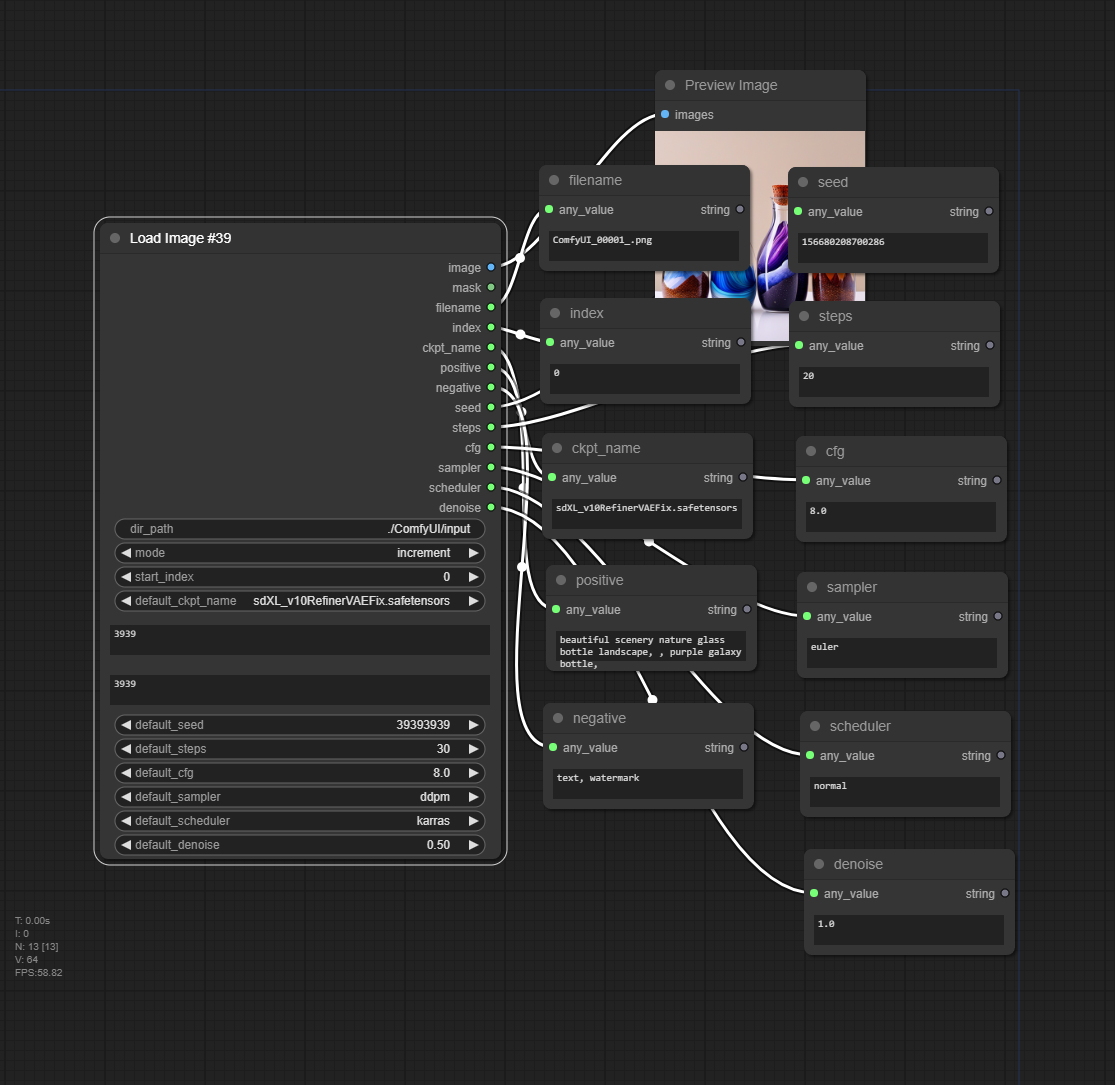
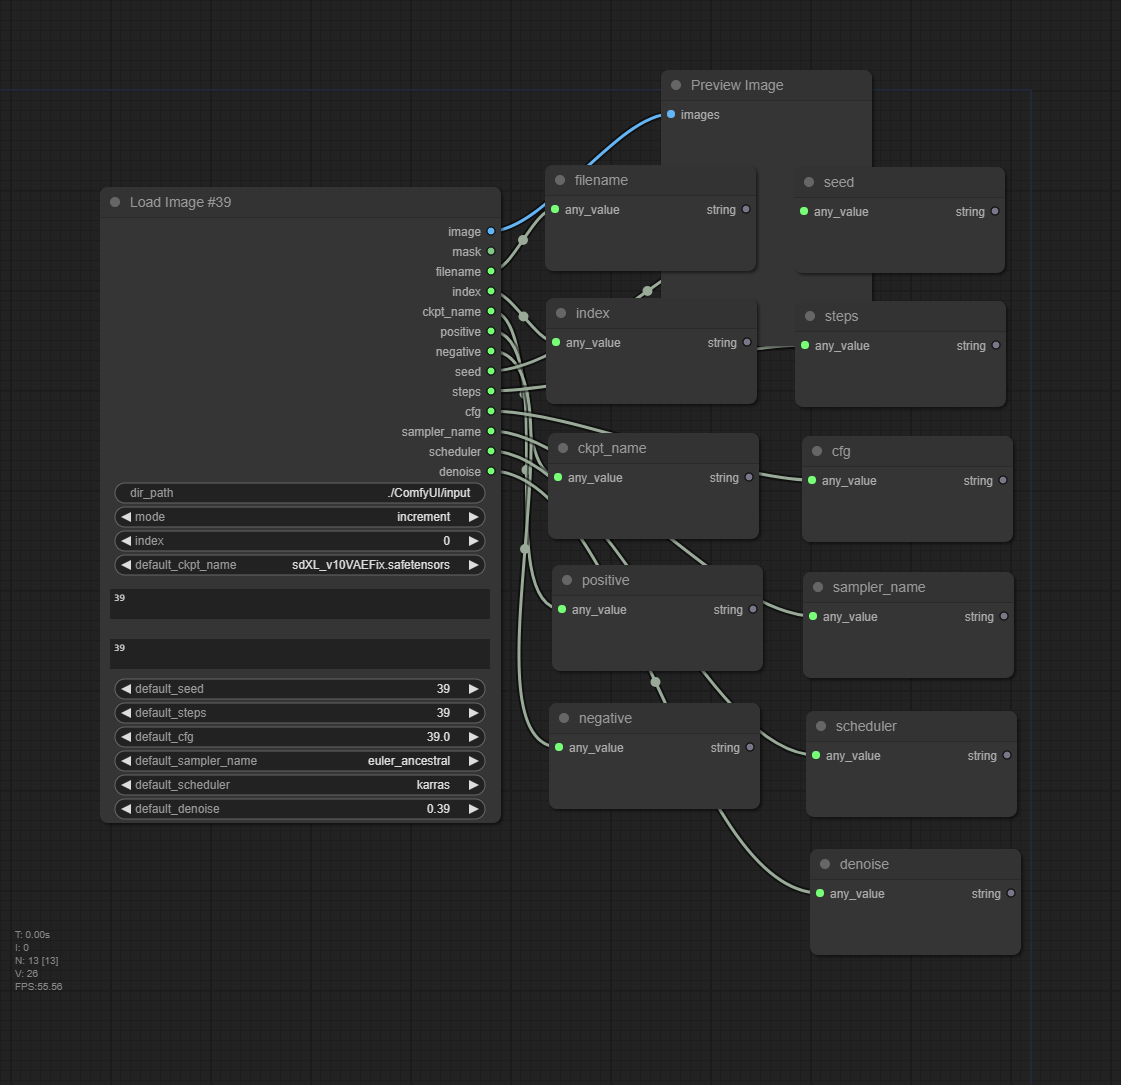
update index for each task

diff --git a/js/index.js b/js/index.js
@@ -1,0 +1,49 @@
+import { api } from "../../scripts/api.js";
+
+const DEBUG = false;
+const NODE_TYPE = "Load Image #39";
+
+if (DEBUG) {
+  console.log("#39 js loaded");
+}
+
+function updateIndexHandler(event) {
+	const nodes = app.graph._nodes_by_id;
+  const updates = event.detail;
+
+  if (DEBUG) {
+    console.log("#39 nodes:", nodes);
+    console.log("#39 updates:", updates);
+  }
+
+	for (let i in nodes) {
+		const node = nodes[i];
+
+    if (node.type !== NODE_TYPE) {
+      continue;
+    }
+    if (!node.widgets) {
+      continue;
+    }
+
+    if (DEBUG) {
+      console.log("#39 node id:", node.id);
+      console.log("#39 node type:", node.type);
+      console.log("#39 node widgets:", node.widgets);
+    }
+
+    const indexWidget = node.widgets.find(function(item) {
+      return item.name == "index";
+    });
+
+    if (DEBUG) {
+      console.log("#39 index widget:", indexWidget);
+    }
+
+    if (updates[node.id] !== undefined) {
+      indexWidget.value = updates[node.id];
+    }
+	}
+}
+
+api.addEventListener("load-image-39-update-index", updateIndexHandler);

diff --git a/__init__.py b/__init__.py
@@ -1,11 +1,12 @@
 """
 @author: shinich39
-@title: Load Image 39
-@nickname: Load Image 39
+@title: Load Image #39
+@nickname: Load Image #39
 @version: 1.0.0
 @description: Load png image sequentially with metadata
 """
 
+import server
 import numpy as np
 import torch
 import os
@@ -16,21 +17,27 @@ from .libs.parser import parse_png
 from .libs.utils import load_image_from_directory
 
 DEBUG = False
+VERSION = "1.0.0"
+WEB_DIRECTORY = "./js"
+NODE_CLASS_MAPPINGS = {}
+NODE_DISPLAY_NAME_MAPPINGS = {}
+__all__ = ["NODE_CLASS_MAPPINGS", "NODE_DISPLAY_NAME_MAPPINGS"]
 
+# main
 class LoadImage():
   def __init__(self):
-    self.loaders = {}
+    pass
 
   @classmethod
-  def INPUT_TYPES(s):
+  def INPUT_TYPES(cls):
     return {
       "hidden": {
         "unique_id": "UNIQUE_ID",
       },
       "required": {
         "dir_path": ("STRING", {"default": "./ComfyUI/input"}),
-        "mode": (["fixed", "increment", "reset"],),
-        "start_index":  ("INT", {"default": 0, "min": 0, "step": 1}),
+        "mode": (["fixed", "increment"],),
+        "index":  ("INT", {"default": 0, "min": 0, "step": 1}),
       },
       "optional": {
         "default_ckpt_name": (comfy_paths.get_filename_list("checkpoints"), ),
@@ -50,60 +57,50 @@ class LoadImage():
     return float("NaN")
 
   CATEGORY = "image"
-  RETURN_TYPES = ("IMAGE", "MASK", "STRING", "INT", "STRING", "STRING", "STRING", "SEED", "INT", "FLOAT", "STRING", "STRING", "FLOAT")
-  RETURN_NAMES = ("image", "mask", "filename", "index", "ckpt_name", "positive", "negative", "seed", "steps", "cfg", "sampler_name", "scheduler", "denoise")
+  RETURN_TYPES = ("IMAGE",  "MASK", "STRING",  "INT",    "STRING",     "STRING",   "STRING",   "INT", "INT",    "FLOAT",  "STRING",       "STRING",     "FLOAT")
+  RETURN_NAMES = ("image",  "mask", "filename","index",  "ckpt_name",  "positive", "negative", "seed", "steps",  "cfg",    "sampler_name", "scheduler",  "denoise")
 
   FUNCTION = "exec"
 
-  def exec(self, unique_id, dir_path, mode, start_index, default_ckpt_name, default_positive, default_negative, default_seed, default_steps, default_cfg, default_sampler_name, default_scheduler, default_denoise):
+  def exec(self, unique_id, dir_path, mode, index, default_ckpt_name, default_positive, default_negative, default_seed, default_steps, default_cfg, default_sampler_name, default_scheduler, default_denoise):
     if DEBUG:
-      print(f"dir_path: {dir_path}")
+      print(f"#39 unique_id: {unique_id}")
+      print(f"#39 dir_path: {dir_path}")
+      print(f"#39 mode: {mode}")
+      print(f"#39 index: {index}")
 
     if not os.path.isdir(dir_path):
-      raise FileNotFoundError(f"{dir_path} not found.")
-    
-    current_index = start_index
-    if self.loaders.__contains__(unique_id):
-      current_index = self.loaders[unique_id]
-
-    # reset
-    if mode == "reset":
-      current_index = start_index
-      self.loaders[unique_id] = start_index
+      raise FileNotFoundError(f"#39 {dir_path} not found.")
   
     # load
-    image, file_path, file_name, file_index = load_image_from_directory(dir_path, current_index)
-
-    if DEBUG:
-      print(f"file_index: {file_index}")
+    image, file_path, file_name, file_index = load_image_from_directory(dir_path, index)
 
     if image is None:
-      raise FileNotFoundError(f"Image not found.")
+      raise FileNotFoundError(f"#39 Image not found.")
     
-    # set index
-    if mode == "increment":
-      self.loaders[unique_id] = file_index + 1
-    elif mode == "reset":
-      self.loaders[unique_id] = file_index
-
+    if DEBUG:
+      print(f"#39 file_path: {file_path}")
+      print(f"#39 file_name: {file_name}")
+      print(f"#39 file_index: {file_index}")
+      
     # parse
     p_prompt, n_prompt, setting, parameter = parse_png(file_path)
 
     if DEBUG:
-      print(f"positive: {p_prompt}")
-      print(f"negative: {n_prompt}")
-      print(f"setting: {setting}")
-      print(f"parameter: {parameter}")
+      print(f"#39 positive: {p_prompt}")
+      print(f"#39 negative: {n_prompt}")
+      print(f"#39 setting: {setting}")
+      print(f"#39 parameter: {parameter}")
 
-    model = default_ckpt_name if "model" not in parameter else parameter["model"]
-    positive = default_positive if p_prompt is None else p_prompt
-    negative = default_negative if n_prompt is None else n_prompt
-    seed = default_seed if "seed" not in parameter else parameter["seed"]
-    steps = default_steps if "steps" not in parameter else parameter["steps"]
-    cfg = default_cfg if "cfg" not in parameter else parameter["cfg"]
-    sampler_name = default_sampler_name if "sampler" not in parameter else parameter["sampler"]
-    scheduler = default_scheduler if "scheduler" not in parameter else parameter["scheduler"]
-    denoise = default_denoise if "denoise" not in parameter else parameter["denoise"]
+    model = default_ckpt_name if parameter["model"] == "None" else parameter["model"]
+    positive = default_positive if not p_prompt else p_prompt
+    negative = default_negative if not n_prompt else n_prompt
+    seed = default_seed if parameter["seed"] == "None" else parameter["seed"]
+    steps = default_steps if parameter["steps"] == "None" else parameter["steps"]
+    cfg = default_cfg if parameter["cfg"] == "None" else parameter["cfg"]
+    sampler_name = default_sampler_name if parameter["sampler"] == "None" else parameter["sampler"]
+    scheduler = default_scheduler if parameter["scheduler"] == "None" else parameter["scheduler"]
+    denoise = default_denoise if parameter["denoise"] == "None" else parameter["denoise"]
 
     # image
     img = ImageOps.exif_transpose(image)
@@ -117,15 +114,52 @@ class LoadImage():
       mask = torch.zeros((64, 64), dtype=torch.float32, device="cpu")
 
     return (image, mask.unsqueeze(0), file_name, file_index, model, positive, negative, seed, steps, cfg, sampler_name, scheduler, denoise)
-  
-WEB_DIRECTORY = "./web"
 
-NODE_CLASS_MAPPINGS = {
-  "Load Image #39": LoadImage,
-}
+# to js
+def update_workflow_index(json_data):
+  nodes = json_data['extra_data']['extra_pnginfo']['workflow']['nodes']
+  widget_idx_map = json_data['extra_data']['extra_pnginfo']['workflow']['widget_idx_map']
+  prompt = json_data['prompt']
 
-NODE_DISPLAY_NAME_MAPPINGS = {
-  "Load Image #39": "Load Image #39",
-}
+  updates = {}
+  for node in nodes:
+    node_id = str(node['id']) # unique_id
+    node_type = str(node['type']) # node name
+    if DEBUG:
+      print(f"#39 node_id {node_id}")
+      print(f"#39 node_type {node_type}")
+       
+    if node_type == "Load Image #39" and node_id in prompt:
+      node_inputs = prompt[node_id]['inputs']
+      
+      mode = node_inputs["mode"]
+      index = node_inputs["index"]
 
-__all__ = ["NODE_CLASS_MAPPINGS", "NODE_DISPLAY_NAME_MAPPINGS"]
+      if mode == "increment":
+        index += 1
+
+      updates[node_id] = index
+
+  if DEBUG:
+    print(f"#39 updates {updates}")
+
+  server.PromptServer.instance.send_sync("load-image-39-update-index", updates)
+
+def onprompt(json_data):
+  print(f"#39 onprompt: {json_data}")
+
+  update_workflow_index(json_data)
+
+  # for k, v in json_data['prompt'].items():
+  #   if v['class_type'] == "Load Image #39":
+
+  #   for k2, v2 in v['inputs'].items():
+  #     if isinstance(v2, str) and '$GlobalSeed.value$' in v2:
+  #       v['inputs'][k2] = v2.replace('$GlobalSeed.value$', str(value))
+
+  return json_data
+
+server.PromptServer.instance.add_on_prompt_handler(onprompt)
+
+NODE_CLASS_MAPPINGS["Load Image #39"] = LoadImage
+NODE_DISPLAY_NAME_MAPPINGS["Load Image #39"] = "Load Image #39"

diff --git a/libs/comfyui.py b/libs/comfyui.py
@@ -53,7 +53,7 @@ class ComfyUI(BaseFormat):
         self._comfy_png()
 
     def _comfy_png(self):
-        prompt = self._info.get("prompt", {})
+        prompt = self._info.get("prompt", str({}))
         workflow = self._info.get("workflow", {})
         prompt_json = json.loads(prompt)
 
@@ -175,22 +175,21 @@ class ComfyUI(BaseFormat):
         )
 
         for p, s in zip(super().PARAMETER_KEY, ComfyUI.SETTING_KEY):
-            print(f"p: {p} s: {s}")
             match p:
                 case k if k in ("model", "sampler"):
                     self._parameter[p] = str(remove_quotes(longest_flow.get(s)))
                 case "seed":
                     self._parameter[p] = (
-                        longest_flow.get("seed")
+                        str(longest_flow.get("seed"))
                         if longest_flow.get("seed")
-                        else longest_flow.get("noise_seed")
+                        else str(longest_flow.get("noise_seed"))
                     )
                 case "steps":
-                    self._parameter["steps"] = longest_flow.get(s)
+                    self._parameter["steps"] = str(longest_flow.get(s))
                 case "cfg":
-                    self._parameter["cfg"] = longest_flow.get(s)
+                    self._parameter["cfg"] = str(longest_flow.get(s))
                 case "denoise":
-                    self._parameter["denoise"] = longest_flow.get(s)
+                    self._parameter["denoise"] = str(longest_flow.get(s))
                 case "size":
                     self._parameter["size"] = str(self._width) + "x" + str(self._height)
                 case _:

diff --git a/libs/utils.py b/libs/utils.py
@@ -1,18 +1,18 @@
 import os
+from pathlib import Path
 from PIL import Image, ImageOps
+
+VALID_EXTENSIONS = [".png"]
 
 def get_all_image_files(dir_path):
   image_list = []
-  valid_extensions = [".jpg",".gif",".png",".tga"]
-
   for file in os.listdir(dir_path):
     ext = os.path.splitext(file)[1]
-
-    if ext.lower() not in valid_extensions:
+    if ext.lower() not in VALID_EXTENSIONS:
       continue
-
-    image_list.append(os.path.join(dir_path, file))
-
+    image_list.append(
+      Path(os.path.join(dir_path, file)).as_posix()
+    )
   return image_list
 
 def load_image_from_directory(dir_path, image_index):
@@ -20,11 +20,11 @@ def load_image_from_directory(dir_path, image_index):
   file_length = len(file_list)
 
   if file_length == 0:
-    return None, -1
+    return None, None, None, -1
   
   file_index = (file_length + image_index) % file_length
   file_path = file_list[file_index]
-  file_name = os.path.basename(file_path)
+  file_name = Path(file_path).resolve().stem
 
   image = Image.open(file_path)
 

diff --git a/libs/parser.py b/libs/parser.py
@@ -15,9 +15,9 @@ def parse_png(file_path):
       raise Exception("Only supported for PNG format")
     
     parser = ComfyUI(info=info, width=width, height=height)
-    positive = None if not hasattr(parser, "positive") else parser.positive
-    negative = None if not hasattr(parser, "negative") else parser.negative
-    setting = None if not hasattr(parser, "setting") else parser.setting
-    parameter = {} if not hasattr(parser, "parameter") else parser.parameter
+    positive = parser.positive
+    negative = parser.negative
+    setting = parser.setting
+    parameter = parser.parameter
 
     return positive, negative, setting, parameter

diff --git a/README.md b/README.md
@@ -1,16 +1,15 @@
 ## comfyui-load-image-39
 
-This node is load png image sequentially with metadata
+This node is load png image sequentially with metadata.\
+Only supported for PNG format that has been created by ComfyUI.
+
+![image-1](./images/1.png)
 
 ## Usage
 
 - Add node > image > Load Image #39
 
-![image](./images/1.png)  
-
-- Reset index
-
-Change 'mode' to 'reset'
+![image-2](./images/11.gif)
 
 ## Credits
 
